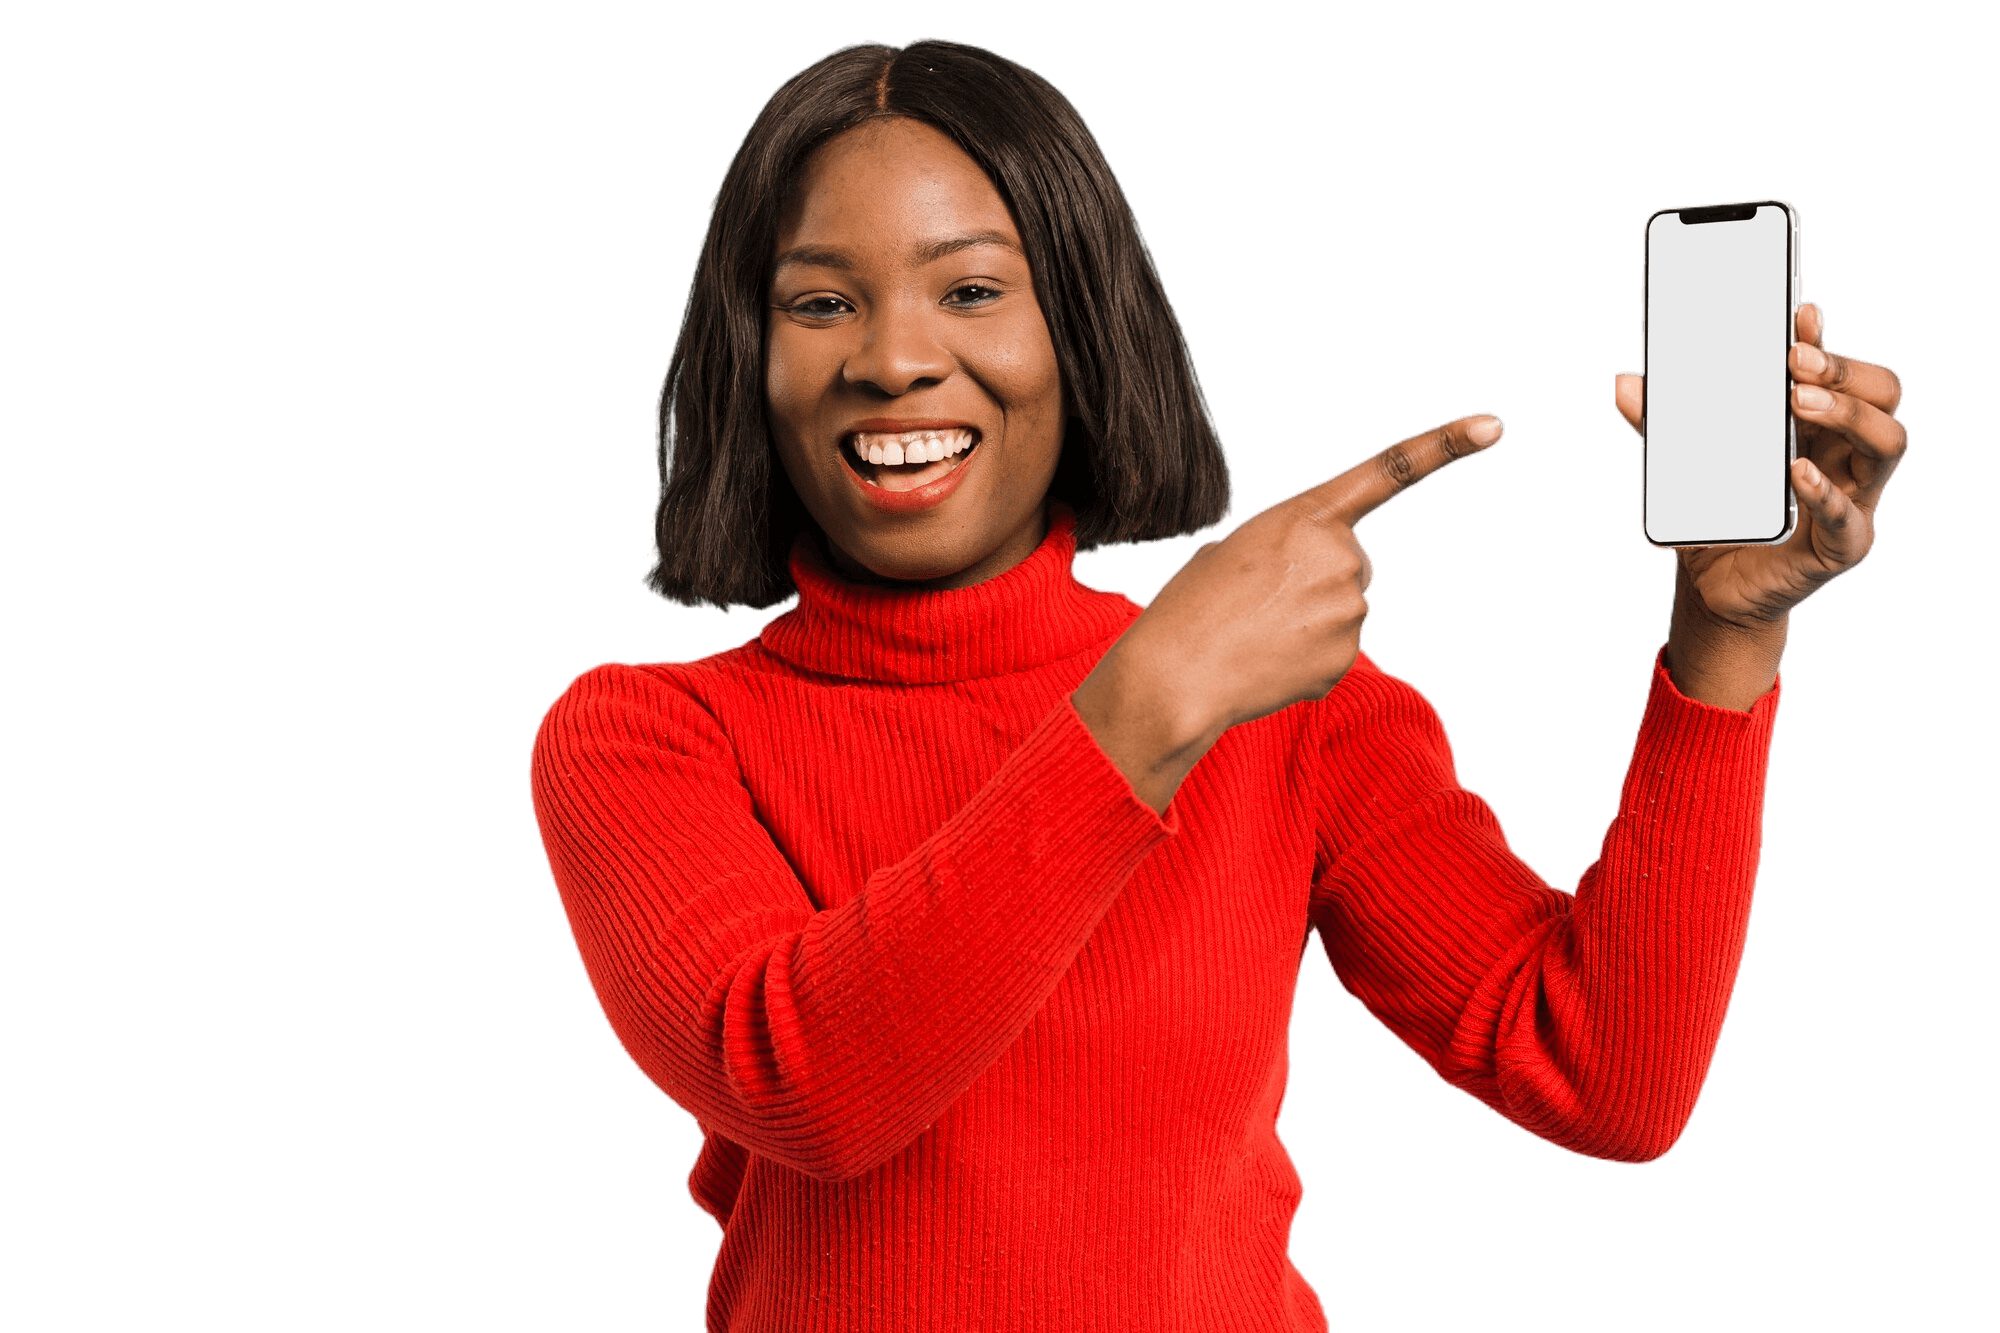
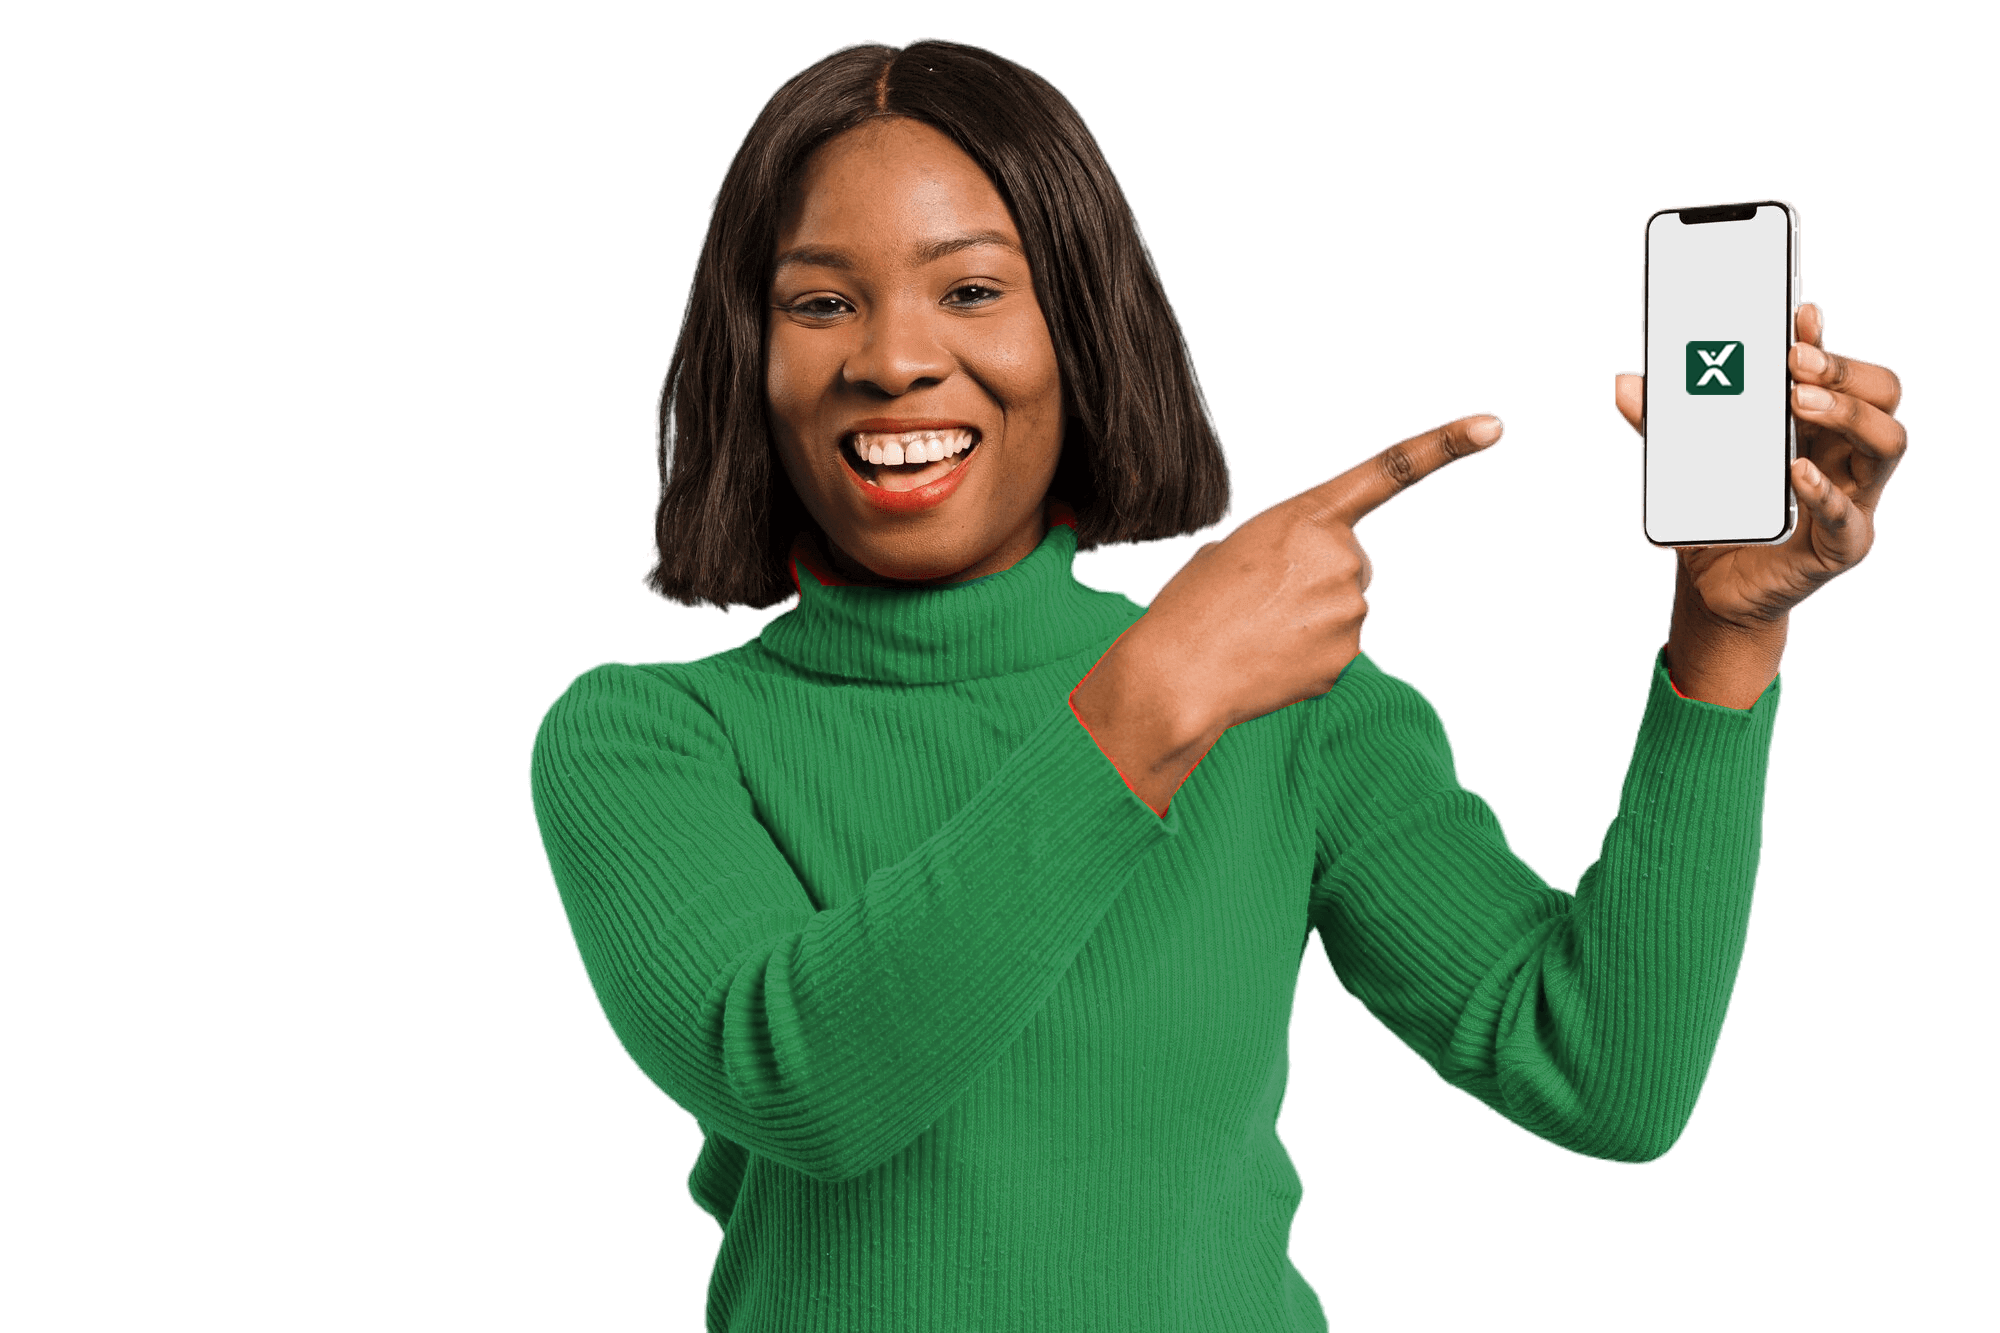
Created testimonial

Changed region(s): [[0.248, 0.3998, 0.899, 1.0], [0.837, 0.2461, 0.868, 0.3076]]

diff --git a/src/views/pages/landing/Testimonial.js b/src/views/pages/landing/Testimonial.js
@@ -1,0 +1,16 @@
+import { Container } from '@mui/material'
+import React from 'react'
+
+const Testimonial = () => {
+  return (
+    <Container>
+        <Paper sx={{
+            backgroundColor: 'blue'
+        }}>
+
+        </Paper>
+    </Container>
+  )
+}
+
+export default Testimonial
